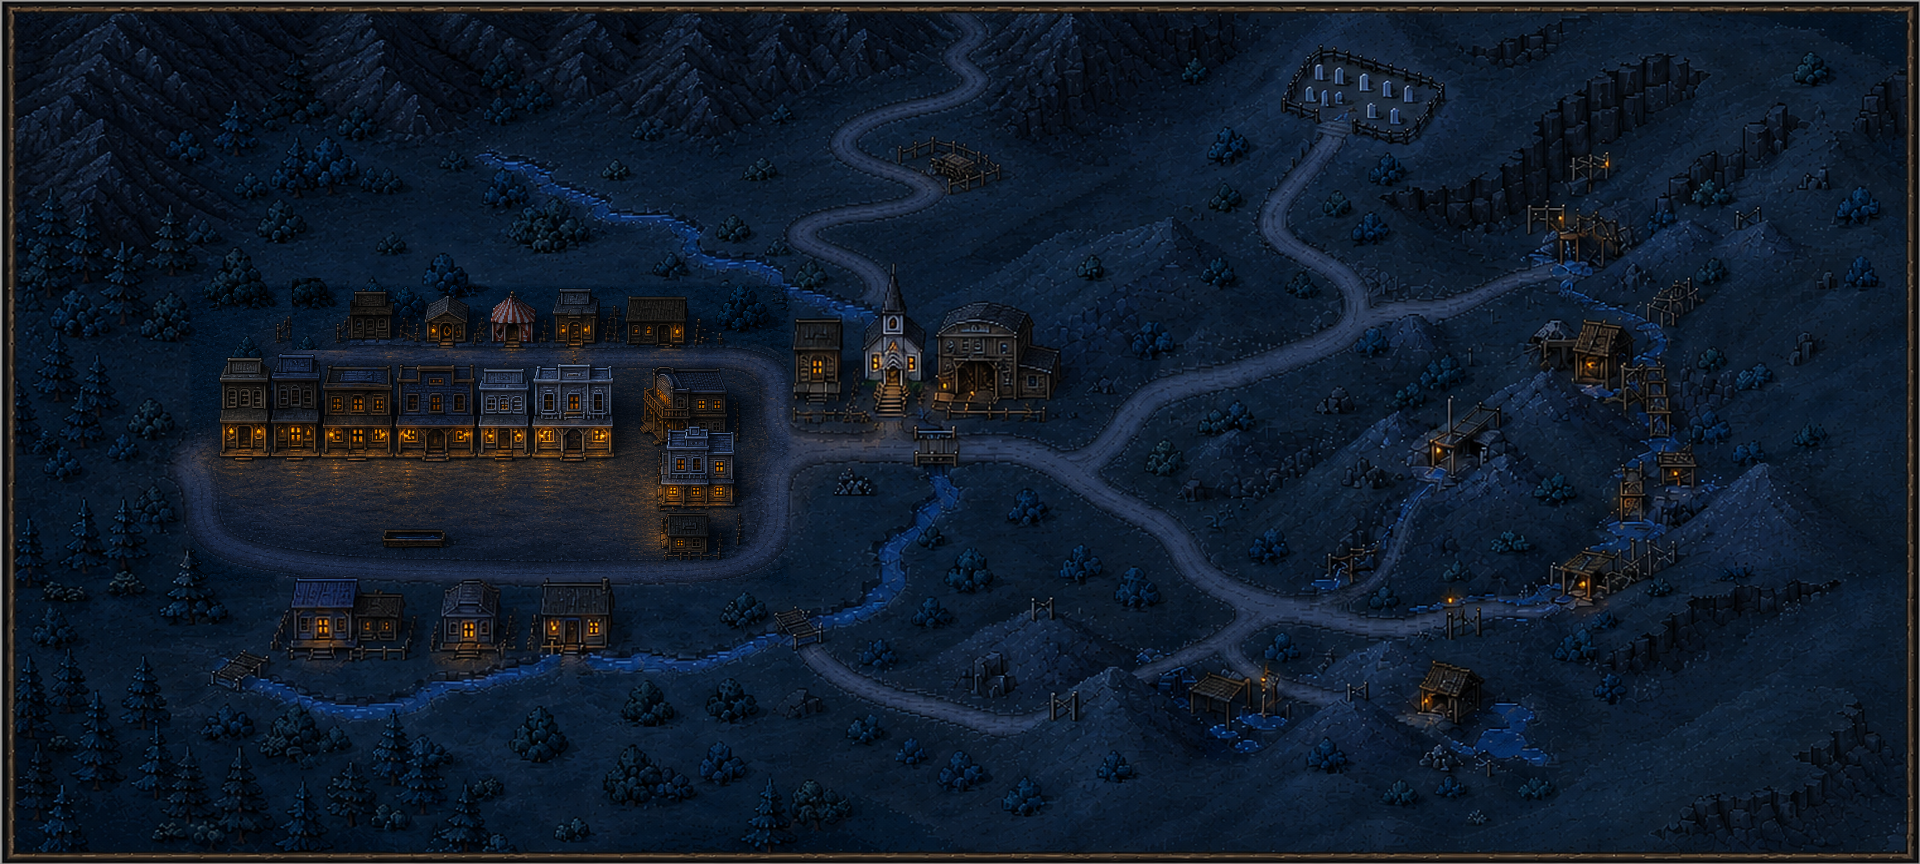
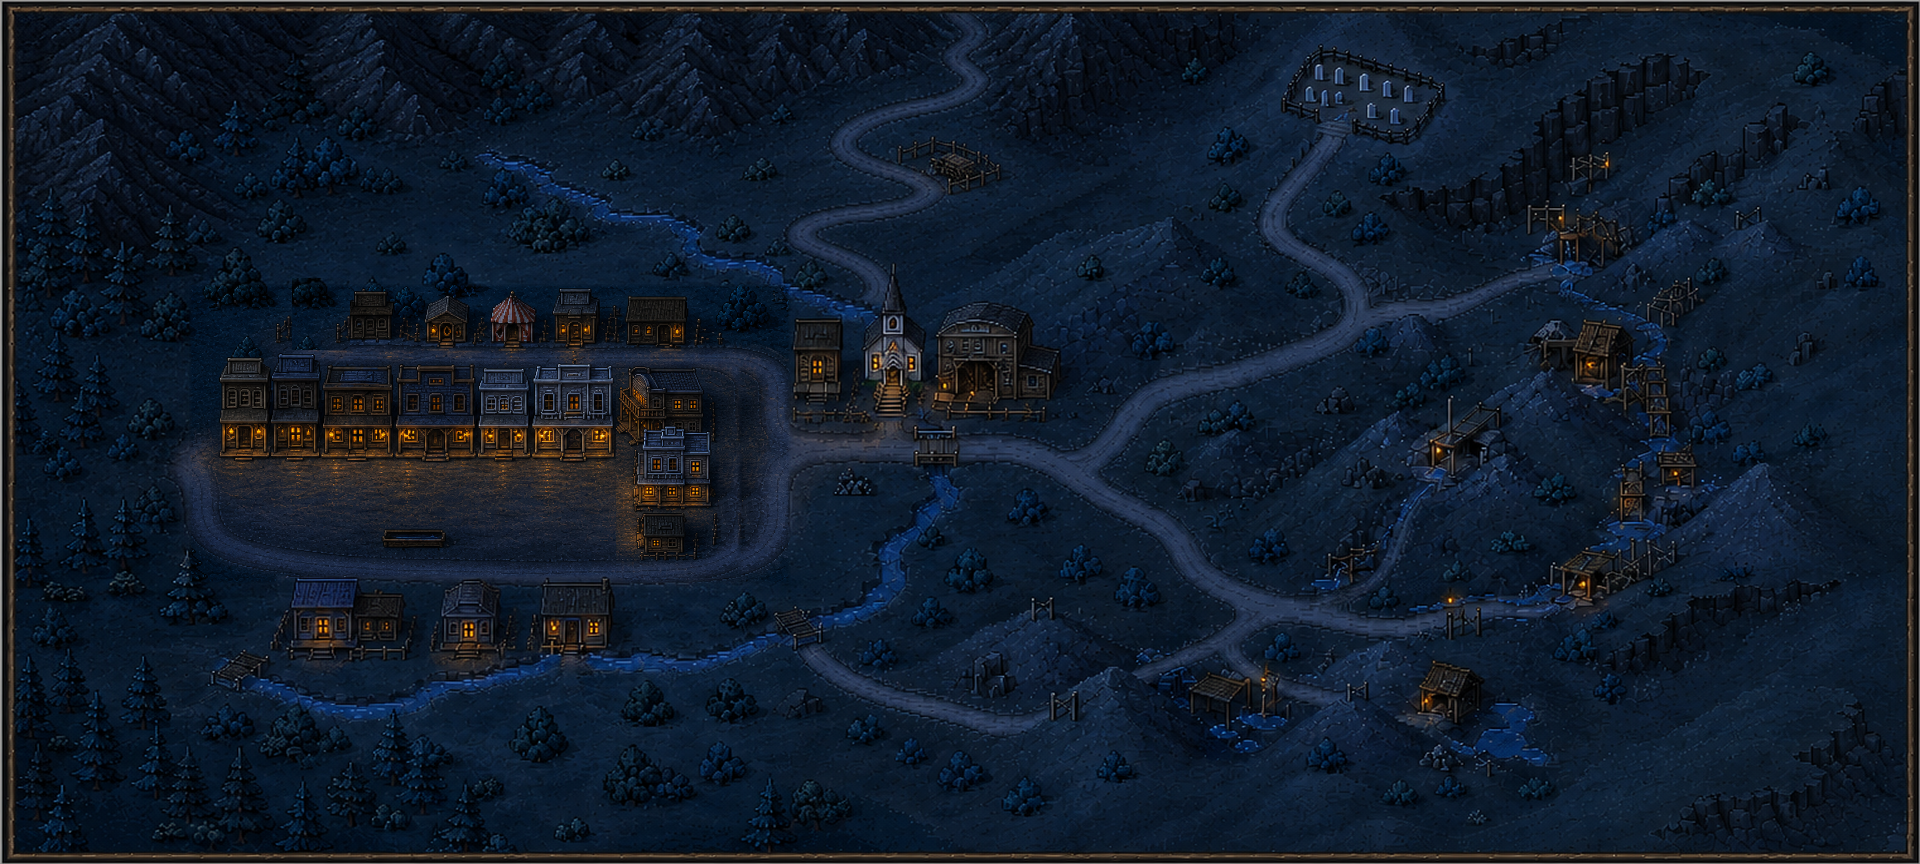
Errata 163 A6: the square's corner closed on the map, by a move
Claude-Session: https://claude.ai/code/session_01FXbCus2Hm36NL2YuHFGB8T

Changed region(s): [[0.3125, 0.4062, 0.4062, 0.6562]]

diff --git a/tools/art/town-map-corner.py b/tools/art/town-map-corner.py
@@ -1,0 +1,49 @@
+"""The square's corner closed on the district map (errata 163 A6). No image operation.
+
+Tyler, 2026-11-07, of the L map's small gap between the long row's last front and the Nugget: asked whether
+it could be fixed "without losing the general look we've created", and told it is a move, not a redraw:
+"Sure". The east arm (the Nugget, the hotel, the assay office and the ground they stand on, x 640-742,
+y 362-578) moves 24 px west, onto the gap's own ground; the strip it leaves is the ground just east of it,
+the same rows and the same light, cross-faded over a few pixels at its edges so no line shows.
+
+  python3 tools/art/town-map-corner.py [--write]
+writes art/staging/town-map/corner-01/candidate.png, and with --write the shipping map.
+"""
+import os
+import sys
+
+import numpy as np
+from PIL import Image
+
+ROOT = os.path.dirname(os.path.dirname(os.path.dirname(os.path.abspath(__file__))))
+MAP = os.path.join(ROOT, 'art/backgrounds/room-00-town-map.png')
+X0, X1, Y0, Y1, DX, FADE = 640, 742, 362, 578, 24, 5
+
+
+def main(write):
+    a = np.asarray(Image.open(MAP).convert('RGB')).astype(float)
+    b = a.copy()
+    b[Y0:Y1, X0 - DX:X1 - DX] = a[Y0:Y1, X0:X1]
+    strip = a[Y0:Y1, X1:X1 + DX]
+    # Weight of the strip against what was there: 1 inside, falling to 0 over FADE px at its east, top and bottom.
+    h, w = strip.shape[:2]
+    wx = np.ones(w)
+    for i in range(FADE):
+        wx[w - 1 - i] = (i + 1) / (FADE + 1)
+    wy = np.ones(h)
+    for i in range(FADE):
+        wy[i] = wy[h - 1 - i] = (i + 1) / (FADE + 1)
+    k = np.minimum.outer(wy, wx)[..., None]
+    b[Y0:Y1, X1 - DX:X1] = strip * k + a[Y0:Y1, X1 - DX:X1] * (1 - k)
+    out = Image.fromarray(np.clip(b, 0, 255).astype(np.uint8))
+    stage = os.path.join(ROOT, 'art/staging/town-map/corner-01')
+    os.makedirs(stage, exist_ok=True)
+    out.save(os.path.join(stage, 'candidate.png'))
+    print(os.path.relpath(os.path.join(stage, 'candidate.png'), ROOT))
+    if write:
+        out.save(MAP)
+        print('promoted', os.path.relpath(MAP, ROOT))
+
+
+if __name__ == '__main__':
+    main('--write' in sys.argv)

diff --git a/docs/00-errata.md b/docs/00-errata.md
@@ -4591,6 +4591,8 @@ He answered **"That all sounds good"** to one more pass: a pass at the top with 
 - **Tyler, shown it: "It doesn't look great."** Offered the choice, he chose **"Keep main, fix the Lane"**. So the L map's east arm (A4) stays as it is. Only the plan's Lane clear is applied, with `town-map-pieces.py lane --write`: the Lane's westmost shopfront becomes the grass and fence beside it, and the Lane has five shopfronts with the tent third. The map changes only inside x 292–349, y 278–349.
 - The pieces, assembly, both finishing passes and the settled candidate are kept as the record. The 13th operation is unspent.
 
+**A6 · The corner closed.** The L map left a small gap between the long row's last front and the Nugget, where the plate runs the row into the corner. Looking closer also showed the Nugget already faces west, with its balcony, porch and steps toward the square. Tyler asked whether the rest could be fixed without losing the look. He was told the gap is a move, not a redraw, that enlarging the Nugget or turning the hotel and the assay office means new drawing and risks the pasted-on look, and was advised to close the gap only. He answered **"Sure"**. `tools/art/town-map-corner.py` moves the east arm 24 px west onto the gap's own ground. The strip it leaves is the ground just east of it, cross-faded at its edges. No image operation. The hotel and the assay office still face south.
+
 **B · The map's Thad (with errata 161, part 3).** A small Thad stands on the map at the place of the room it was opened from, or Main Street for a room with none of its own (`mapToken.homes` names the rest). A click on a place walks him there along the drawn roads, the shortest way, and the room changes when he arrives (`engine/core/MapWalk.ts`).
 - **Timing.** He walks at 260 pixels a second, and never for longer than 4.5 seconds: a long walk is walked faster.
 - **Skipping.** A second click skips the walk, so backtracking never waits.
